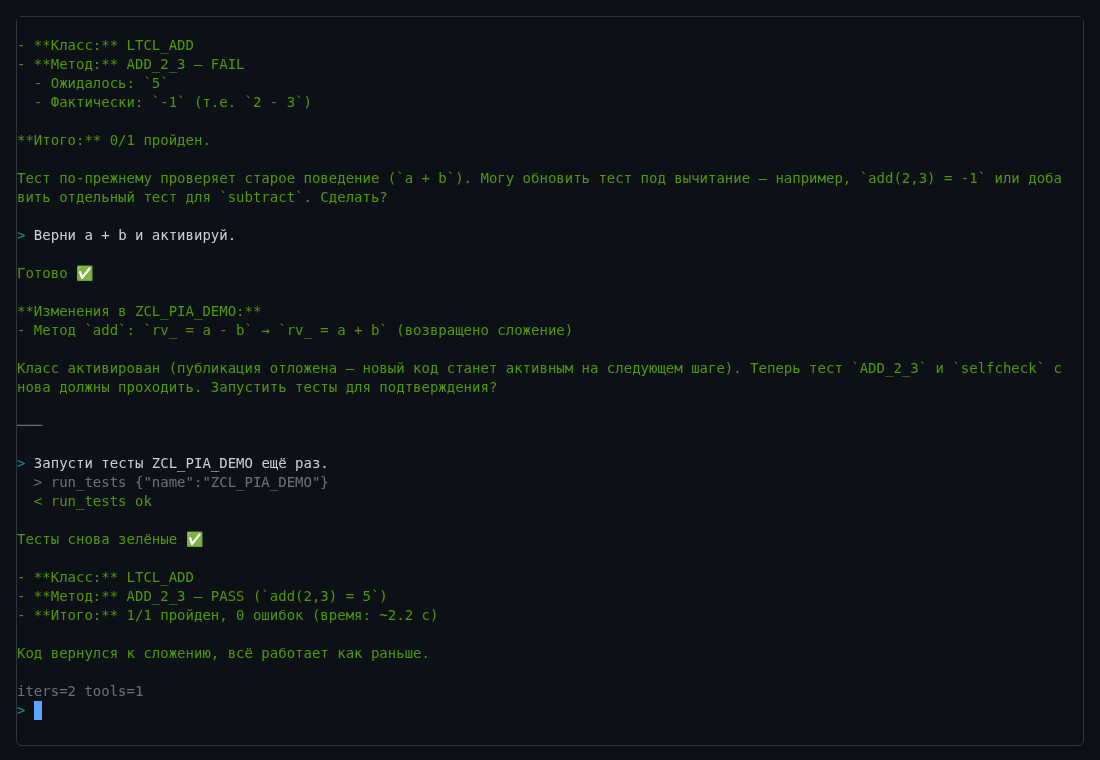
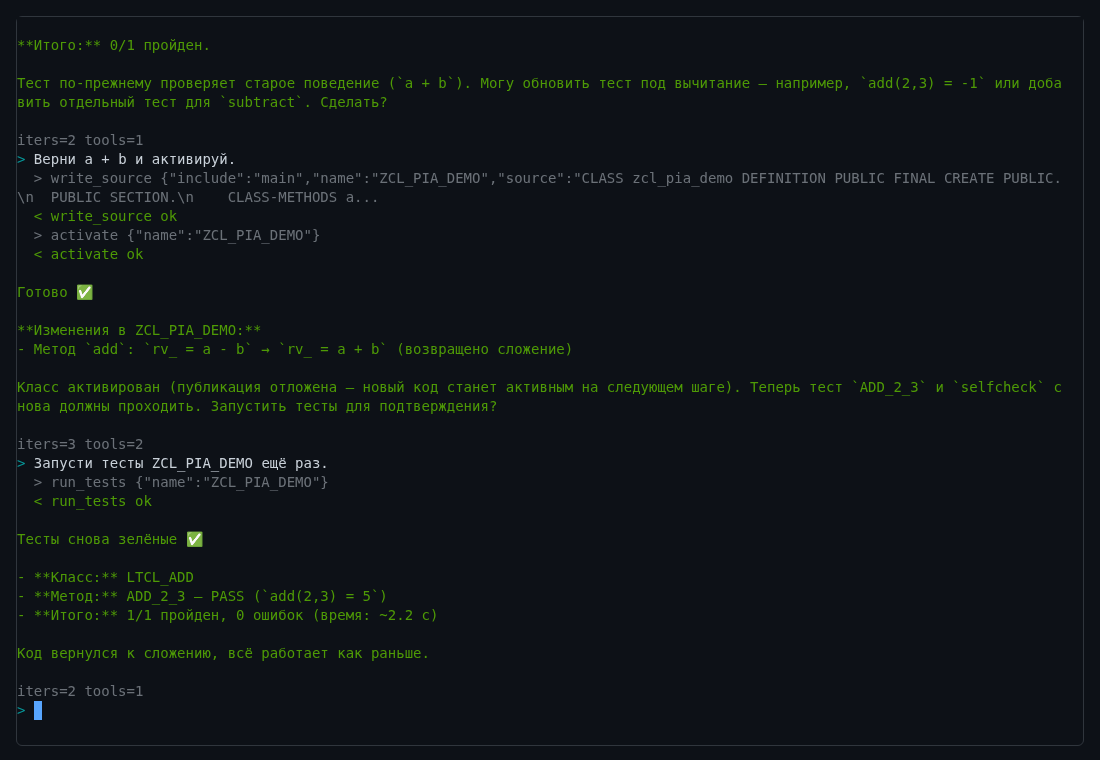
Chapter 19: run PIA yourself on open-steamgate 0.7.1696 with the recorded answers
Hands-on steps from PIA's README at e815e79 (setup, per-language replay,
five tasks, optional e2e), checked by a reader run on a fresh tree; the two
open-steamgate pictures are from that run.

Claude-Session: https://claude.ai/code/session_018Djywwje7kdEq6CEr4LG73

diff --git a/book/ru/19-pia.md b/book/ru/19-pia.md
@@ -10,9 +10,10 @@
 
 Всё здесь — собственные результаты PIA из его релизов
 [v0.1.0](https://github.com/oisee/pia/releases/tag/v0.1.0) и
-[v0.1.1](https://github.com/oisee/pia/releases/tag/v0.1.1). Картинки — PIA
-0.1.1: пять сняты на ABAP Platform Trial от SAP (A4H, NetWeaver 7.58), две —
-на open-steamgate; сами мы эти прогоны не повторяли.
+[v0.1.1](https://github.com/oisee/pia/releases/tag/v0.1.1). Пять картинок —
+собственные кадры PIA 0.1.1 на ABAP Platform Trial от SAP (A4H, NetWeaver
+7.58); две картинки с open-steamgate сняты для этой книги по шагам из
+последнего раздела.
 Последний раздел говорит, что нужно, чтобы запустить то же самое в своей
 песочнице.
 
@@ -167,42 +168,92 @@ SAP запрещает ABAP Unit и запись исходников, то ес
   ([отчёт](https://github.com/oisee/pia/blob/v0.1.0/reports/2026-10-06-SELF-HOSTING.md)).
   Агент на ABAP, написанный на ABAP, изменил свой собственный ABAP.
 
-## Тот же прогон на open-steamgate
+## Запустите сами в open-steamgate
 
-[PIA 0.1.1](https://github.com/oisee/pia/releases/tag/v0.1.1) проходит те же
-пять ходов на open-steamgate. Эти картинки сняты там, при воспроизведении
-записанных ответов модели, о котором ниже
-([screenshots/osg-tui](https://github.com/oisee/pia/tree/68431f8/screenshots/osg-tui)).
-Одно отличие видно в ответах агента: на open-steamgate активация публикуется в
-конце хода, поэтому модель пишет «публикация отложена — новый код станет
-активным на следующем шаге», и тесты идут следующим ходом.
+Тег open-steamgate этой книги содержит всё, что нужно терминалу PIA:
+- API разработки для агентов;
+- расширения каналов AMC;
+- публикацию в конце шага APC;
+- тёплые перезапуски, которые ждут, пока открыт канал.
 
-![На open-steamgate: красный после поломки, затем add возвращается к a + b и активируется](../img/pia-osg-4-fix.ru.png)
+README PIA называет тот же коммит, `292a4c60`
+([README на e815e79](https://github.com/oisee/pia/blob/e815e79/README.md)).
+Шаги ниже воспроизводят ответы модели, так что после установки не нужны ни
+ключ, ни сеть. Инструменты PIA при этом работают по-настоящему: читают,
+пишут, активируют и тестируют класс в вашей системе.
+
+Нужны git, Node 22 или новее и место под второе дерево open-steamgate,
+только для PIA: около 0,8 ГБ и ещё около 0,5 ГБ под закреплённый
+транспайлер.
+
+1. Клонируйте PIA и поставьте ему свой open-steamgate:
+
+   ```
+   git clone https://github.com/oisee/pia && cd pia
+   osg-probe/osg-setup.sh ~/dev/osg-pia
+   ```
+
+   Скрипт клонирует open-steamgate на теге `vscode-stable-v0.7.1696` в
+   `~/dev/osg-pia`. Затем он:
+   - устанавливает его и закрепляет транспайлер;
+   - развёртывает PIA и запускает систему;
+   - ждёт, пока система начнёт отвечать, и один раз активирует `ZCL_PIA_DEMO`;
+   - печатает адрес терминала:
+     `PIA terminal: http://127.0.0.1:<port>/sap/bc/zpia_tui/ (user alice, password alice)`.
+
+   Первая сборка занимает несколько минут. Скрипт заметит, что нет `pia.env`:
+   в этом файле лежит ключ модели, а воспроизведению он не нужен.
+
+2. Скажите PIA отвечать из английской записи:
+
+   ```
+   cp replay/pia-chapter.en.rec ~/.config/pia/
+   echo "PIA_LLM=replay:pia-chapter.en.rec" > ~/.config/pia/pia-settings.env
+   rm -f ~/.config/pia/pia-chapter.en.rec.pos
+   ```
+
+   На `~/.config/pia` установка направляет каталоги данных системы
+   (`OSD_DATASET_*`). Файл `.pos` помнит, докуда дошло воспроизведение;
+   если его удалить, всё начнётся сначала.
+
+3. Откройте адрес в браузере, войдите как `alice` / `alice` и наберите пять
+   задач по одной:
+   1. `Run the tests of ZCL_PIA_DEMO.`
+   2. `In ZCL_PIA_DEMO, change add to a - b and activate it.`
+   3. `Run the tests of ZCL_PIA_DEMO again.`
+   4. `Change add back to a + b and activate it.`
+   5. `Run the tests of ZCL_PIA_DEMO once more.`
+
+   Ожидается: зелёный, изменение и его активация, красный (ожидалось 5,
+   получено −1), исправление и снова зелёный. Ответы — записанные; вызовы
+   инструментов, исходник в вашей системе и результаты тестов — ваши.
+
+   Есть и русская запись, `pia-chapter.ru.rec`, с русскими задачами — они в
+   [тесте PIA](https://github.com/oisee/pia/blob/e815e79/osg-probe/ui/tui-e2e.mjs).
+
+![Красный ход на open-steamgate при воспроизведении: ADD_2_3 ожидал 5, получил −1](../img/pia-osg-3-red.ru.png)
 
 ![Пятый ход: тесты снова зелёные](../img/pia-osg-5-green.ru.png)
 
-## Запуск в своём open-steamgate
+Воспроизведение не читает вашу задачу: оно выдаёт записанные ответы по
+порядку. Набирайте задачи в этом порядке, иначе модель ответит не на тот
+вопрос. Запись есть для каждого языка (`pia-chapter.en.rec`, `.da.rec`,
+`.ru.rec`).
 
-PIA 0.1.1 умеет воспроизводить главу без ключа модели. Строка
-`PIA_LLM=record:<файл>` в `pia-settings.env` (настройки без секретов, рядом с
-`pia.env`) записывает каждый ответ модели в файл, а `PIA_LLM=replay:<файл>`
-отвечает из него по порядку, без ключа и без сети. Инструменты при этом
-выполняются по-настоящему. В релизе лежит `pia-chapter.rec`: сценарий из пяти
-ходов на английском, датском и русском, записанный на open-steamgate. Чтобы
-начать заново, удалите `pia-chapter.rec.pos`
-([заметки к релизу](https://github.com/oisee/pia/releases/tag/v0.1.1)).
+На open-steamgate активация вступает в силу, когда ход заканчивается.
+Поэтому модель пишет, что публикация отложена, а тесты идут следующим ходом,
+а не в том же. Со своим ключом в `~/.config/pia/pia.env` (`ZAI_API_KEY=…`) и
+без строки `PIA_LLM` тот же терминал говорит с живой моделью.
 
-Тег open-steamgate, для которого написана книга, включает три исправления
-рантайма из заметок к релизу PIA: сопоставление расширений каналов AMC
-(#630), завершение публикации до следующего события того же сокета APC
-(#636) и отсрочку тихого перезапуска и перезапуска по числу подмен, пока
-сокет APC открыт (#631). Ограничение по памяти и перезапуски ради
-корректности по-прежнему могут оборвать сокет; это не гарантия от любого
-перезапуска рантайма. См. [заметки к релизу тега](https://github.com/oisee/open-steamgate/releases/tag/vscode-stable-v0.7.1696)
-и [жизненный цикл warm](https://github.com/oisee/open-steamgate/blob/vscode-stable-v0.7.1696/docs/warm-compile.md).
-Картинки выше остаются записью прогона PIA 0.1.1; это не новый приёмочный
-прогон PIA на этом теге.
+Если удобнее, терминал за вас проведёт тот же тест, который запускают
+авторы PIA:
 
-На SAP PIA ставится уже сейчас: zip для abapGit, два сертификата для хоста
-модели, файл с ключом и терминал по адресу `/sap/bc/zpia_tui/`. Шаги — в
-[README](https://github.com/oisee/pia/blob/v0.1.1/README.md).
+```
+cd ~/dev/osg-pia && npx playwright install chromium     # один раз
+cd - && PIA_E2E_USER=alice PIA_E2E_PASS=alice OSG=~/dev/osg-pia \
+  node osg-probe/ui/tui-e2e.mjs http://127.0.0.1:<port>/sap/bc/zpia_tui/ ru
+```
+
+На SAP PIA ставится из zip для abapGit: два сертификата для хоста модели,
+файл с ключом и терминал по адресу `/sap/bc/zpia_tui/`; шаги — в
+[README](https://github.com/oisee/pia/blob/e815e79/README.md).

diff --git a/book/19-pia.md b/book/19-pia.md
@@ -9,9 +9,10 @@ it and runs its ABAP Unit tests, on that same system and as you.
 
 Everything here is PIA's own, from its releases
 [v0.1.0](https://github.com/oisee/pia/releases/tag/v0.1.0) and
-[v0.1.1](https://github.com/oisee/pia/releases/tag/v0.1.1). The pictures are
-PIA 0.1.1: five on SAP's ABAP Platform Trial (A4H, NetWeaver 7.58), two on
-open-steamgate; this chapter did not repeat the runs. The last section says what it takes to run the same thing in your
+[v0.1.1](https://github.com/oisee/pia/releases/tag/v0.1.1). Five pictures
+are PIA's own, taken with 0.1.1 on SAP's ABAP Platform Trial (A4H, NetWeaver
+7.58); the two open-steamgate pictures were taken for this book, following
+the last section's steps. The last section says what it takes to run the same thing in your
 own sandbox.
 
 ## A turn
@@ -164,41 +165,89 @@ These are PIA's own findings, from its reports and porting notes.
   ([report](https://github.com/oisee/pia/blob/v0.1.0/reports/2026-10-06-SELF-HOSTING.md)).
   An ABAP agent, written in ABAP, changed its own ABAP.
 
-## The same run on open-steamgate
+## Run it yourself on open-steamgate
 
-[PIA 0.1.1](https://github.com/oisee/pia/releases/tag/v0.1.1) runs the same
-five turns on open-steamgate. These pictures were taken there, replaying the
-recorded model answers described below
-([screenshots/osg-tui](https://github.com/oisee/pia/tree/68431f8/screenshots/osg-tui)).
-One difference shows in the agent's answers: on open-steamgate an activation
-is published at the end of the turn, so the model says "publish pending, live
-in the next step", and the tests run in the next turn.
+This book's open-steamgate tag has everything PIA's terminal needs:
+- the agent development API;
+- AMC channel extensions;
+- publishing at the end of an APC step;
+- warm recycles that wait while a push channel is open.
 
-![On open-steamgate: red after the break, then add goes back to a + b and is activated](img/pia-osg-4-fix.png)
+PIA's README names the same commit, `292a4c60`
+([README at e815e79](https://github.com/oisee/pia/blob/e815e79/README.md)).
+The steps below replay the model's answers, so you need no key and no
+network once things are installed. PIA's own tools still run for real:
+they read, write, activate and test the class in your system.
+
+You need git, Node 22 or newer, and room for a second open-steamgate tree
+just for PIA: about 0.8 GB, plus about 0.5 GB for the pinned transpiler.
+
+1. Clone PIA and set up its own open-steamgate:
+
+   ```
+   git clone https://github.com/oisee/pia && cd pia
+   osg-probe/osg-setup.sh ~/dev/osg-pia
+   ```
+
+   The script clones open-steamgate at `vscode-stable-v0.7.1696` into
+   `~/dev/osg-pia`. Then it:
+   - installs it and pins the transpiler;
+   - deploys PIA and starts the system;
+   - waits until the system serves and activates `ZCL_PIA_DEMO` once;
+   - prints the terminal's address:
+     `PIA terminal: http://127.0.0.1:<port>/sap/bc/zpia_tui/ (user alice, password alice)`.
+
+   The first build takes a few minutes. It notes that `pia.env` is missing;
+   that file holds a model key, and replay needs none.
+
+2. Tell PIA to answer from the English recording:
+
+   ```
+   cp replay/pia-chapter.en.rec ~/.config/pia/
+   echo "PIA_LLM=replay:pia-chapter.en.rec" > ~/.config/pia/pia-settings.env
+   rm -f ~/.config/pia/pia-chapter.en.rec.pos
+   ```
+
+   `~/.config/pia` is where the setup points the system's data directories
+   (`OSD_DATASET_*`). The `.pos` file remembers how far the replay got;
+   deleting it starts over.
+
+3. Open the address in a browser, log on as `alice` / `alice`, and type the
+   five tasks, one at a time:
+   1. `Run the tests of ZCL_PIA_DEMO.`
+   2. `In ZCL_PIA_DEMO, change add to a - b and activate it.`
+   3. `Run the tests of ZCL_PIA_DEMO again.`
+   4. `Change add back to a + b and activate it.`
+   5. `Run the tests of ZCL_PIA_DEMO once more.`
+
+   Expected: green, the change and its activation, red (expected 5, actual
+   −1), the fix, and green again. The answers are the recorded ones; the
+   tool calls, the source in your system and the test results are yours.
+
+![The red turn on open-steamgate, replayed: ADD_2_3 expected 5, got −1](img/pia-osg-3-red.png)
 
 ![The fifth turn: the tests are green again](img/pia-osg-5-green.png)
 
-## Running it on your own open-steamgate
+The replay does not read your task: it hands out the recorded answers in
+order. Type the five tasks in this order, or the model will answer a
+question you did not ask. There is a recording per language
+(`pia-chapter.en.rec`, `.da.rec`, `.ru.rec`); the Danish and Russian tasks
+are in PIA's [test](https://github.com/oisee/pia/blob/e815e79/osg-probe/ui/tui-e2e.mjs).
 
-PIA 0.1.1 can replay the chapter without a model key. `PIA_LLM=record:<file>`
-in `pia-settings.env` (settings without secrets, next to `pia.env`) writes
-every model answer to a file; `PIA_LLM=replay:<file>` answers from it, in
-order, with no key and no network. The tools still run for real. The release
-carries `pia-chapter.rec`: the five-turn scenario in English, Danish and
-Russian, recorded on open-steamgate. Delete `pia-chapter.rec.pos` to start
-over ([release notes](https://github.com/oisee/pia/releases/tag/v0.1.1)).
+On open-steamgate an activation goes live when the turn ends. That is why
+the model says the publication is pending, and why the tests run in the next
+turn rather than in the same one. With your own key in `~/.config/pia/pia.env`
+(`ZAI_API_KEY=…`) and no `PIA_LLM` line, the same terminal talks to the live
+model instead.
 
-The book's open-steamgate tag includes the three runtime fixes named in
-PIA's release notes: AMC channel-extension matching (#630), publication
-completed before the next event on the same APC socket (#636), and deferral
-of quiet and swap-count warm recycles while an APC socket is open (#631).
-The heap safety limit and correctness-driven recycles can still cut sockets;
-this is not a guarantee against every runtime restart. See the tag's
-[release notes](https://github.com/oisee/open-steamgate/releases/tag/vscode-stable-v0.7.1696)
-and [warm lifecycle](https://github.com/oisee/open-steamgate/blob/vscode-stable-v0.7.1696/docs/warm-compile.md).
-The pictures above remain the recorded PIA 0.1.1 run; they are not a fresh
-PIA acceptance run on this tag.
+The same test PIA's authors run drives the terminal for you, if you prefer:
 
-On SAP, PIA installs today: an abapGit zip, two certificates for the model's
-host, a key file, and the terminal at `/sap/bc/zpia_tui/`. The
-[README](https://github.com/oisee/pia/blob/v0.1.1/README.md) has the steps.
+```
+cd ~/dev/osg-pia && npx playwright install chromium     # once
+cd - && PIA_E2E_USER=alice PIA_E2E_PASS=alice OSG=~/dev/osg-pia \
+  node osg-probe/ui/tui-e2e.mjs http://127.0.0.1:<port>/sap/bc/zpia_tui/ en
+```
+
+On SAP, PIA installs from an abapGit zip with two certificates for the
+model's host, a key file, and the terminal at `/sap/bc/zpia_tui/`; the
+[README](https://github.com/oisee/pia/blob/e815e79/README.md) has the steps.
